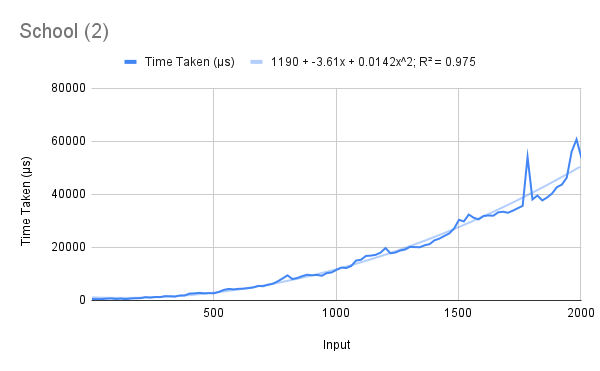
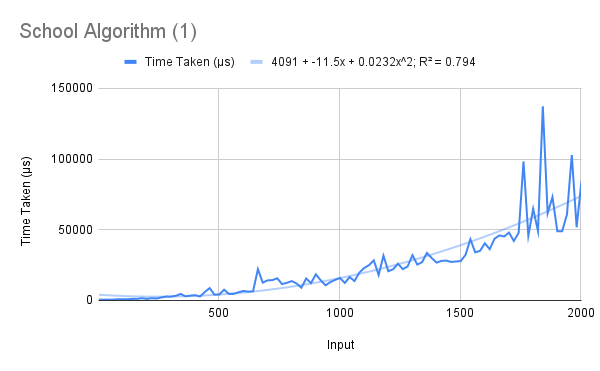
Multiplication Analysis and README

diff --git a/Prelims/Multiplication/README.md b/Prelims/Multiplication/README.md
@@ -1,0 +1,106 @@
+# Algorithms to Multiply Integers
+Two algorithms were taught in class to multiply arbitrary-size integers:
+
+1. the naïve school algorithm  
+2. the Karatsuba algorithm  
+
+In addition to these two, Haskell's native multiplication operator `*` is also given for comparison.  
+
+During implementation, two possible representations of arbitrary-size integers were considered – a list of digits (from highest power to smallest), or the normal representation. The school algorithm was more convenient in the former representation, while the Karatsuba algorithm and Haskell's multiplication operator could be more easily applied to the latter. Therefore all three operators were implemented in both representations.  
+
+Note: Haskell's arbitrary-size integer type, `Integer`, is the input and return type of all the functions in the second representation.
+
+## Running
+To run one of the algorithms, uncomment (remove the two hyphens and the space preceding) the corresponding line in the `main` function, save the file, and recompile. When running, pass the operands as command-line arguments (in quotes in case they are lists).
+```
+> ./multiplication 123 456
+> 56088
+> ./multiplication "[1,2,3]" "[4,5,6]"
+> "[5,6,0,8,8]"
+```
+
+## Explanation
+### The School Algorithm
+This solution runs in quadratic time, by computing partial products of one operand with each digit of the other, shifting each by the required amount, and adding. In the list representation, the shifting is done by appending a zero to the beginning prior to adding. For example, consider the input `[1,2,3]` times `[4,5,6]`. The list `t` has the value `[[4,8,12,0,0],[5,10,15,0,0],[6,12,18,0,0]]` (note that single-digit multiplication is done using the native operator, as a base case).  
+This list is folded from the right (`foldr`) with the function `\b p -> zipWith (+) b (0:p)` and the base case `[0,0,..]` (which is the same as `repeat 0`). Thus the sequence of operations is:  
+`zipWith (+) [6,12,18,0,0] (0:[0,0,..])         = [6,12,18,0,0]`  
+`zipWith (+) [5,10,15,0,0] (0:[6,12,18,0,0,0])  = [5,16,27,18,0]`  
+`zipWith (+) [4,8,12,0,0]  (0:[5,16,27,18,0,0]) = [4,13,28,27,18]`  
+
+The `toNum` converts this list to one with only single digits as elements, by taking `mod 10` and adding the carry-overs.  
+
+In the ordinary representation, the number is first converted to a list of digits and then back to an integer at the end.
+
+### The Karatsuba Algorithm
+This is a recursive algorithm, which runs by splitting the digits into two parts and computing the sub-products recursively. The `split` and `split2` functions divide both the integers and return a tuple of the parts, and the number of digits in the second part. The submultiplications take place and the products are multiplied by the appropriate power of 10, before being added together.  
+The base case is when *either* of the arguments has a single digit. It is carried out using the ordinary multiplication operator.  
+
+In the list representation, the base case is given by multiplying the digit and applying `toNum`. Further, multiplication by the powers of 10 is carried out by appending the required number of 0s to the end. `plus` and `minus` are for adding and subtracting (respectively) two list-represented integers of *unequal* length, by first padding one of them.
+
+## Analysis
+Each of the functions was run on a (different) randomly generated testcase, on numbers of lengths separated by intervals of 20 from 2 to 2002.  
+The list representation's graphs are marked as (1) and the normal representation's as (2).
+The R² values of the best fit of various types of functions for each of the algorithms' running times are shown below.  
+
+Algorithm          | Linear | Quadratic | Exponential | Power Series | Logarithmic  
+------------------ | ------ | --------- | ----------- | ------------ | -----------  
+Haskell Native (1) | 0.407  | 0.408     | 0.404       | 0.298        | 0.279  
+Haskell Native (2) | 0.091  | 0.101     | 0.086       | 0.032        | 0.038  
+School (1)         | 0.709  | 0.794     | 0.796       | 0.823        | 0.373  
+School (2)         | 0.895  | 0.975     | 0.958       | 0.797        | 0.473  
+Karatsuba (1)      | 0.704  | 0.704     | 0.634       | 0.839        | 0.487  
+Karatsuba (2)      | 0.928  | 0.949     | 0.907       | 0.826        | 0.55  
+
+Best fit curves are not considered for the first two methods as their values show that the trendline is not accurate for any standard type of function.  
+
+### Haskell Native
+This operation is extremely efficient, which is probably why we cannot see a significant trend in its running times in the small range. The graph is dominated by noise.  
+
+However, one conclusion we *can* draw would be the conversion time from the list representation to the ordinary representation (and back), which takes place in the first implementation. The average time of this (across all input lengths) is 707 μs in the list representation and 595 μs in the normal representation, which tells us that it takes about 100 μs (or 0.0001 seconds) to carry out the conversion.  
+While this offset is significant in this efficient operation, it is entirely negligible in the school algorithm's running time, and rapidly becomes so in the Karatsuba algorithm's.
+
+![Running Time of Haskell's Native Multiplication (List Representation)](HaskNatL.png)  
+
+![Running Time of Haskell's Native Multiplication (Normal Representation)](HaskNat.png)  
+
+
+### The School Algorithm
+This algorithm grows very fast compared to both others. As noted above, however, the conversion time between representations (which we expect to be disadvantageous to the normal representation) makes very little difference.  
+
+In fact, the average time of the normal representation is much better – 16600 μs, as compared to 23726 μs for the list representation. This can be attributed to the high amount of fluctuation noted in the graph, although the reason for this is unknown. The two implementations are identical, except for the conversion layered on the second one.  
+
+Notably, the range of 0- to 2000-digit numbers is enough to show the quadratic running time. The best-fit equation in both cases is quadratic, and its leading coefficient is not a negligible value (usually higher-order polynomial best fit equations tend to have leading coefficients of the order of 10^-5). The high R² value in the case of the normal representation is also encouraging.
+
+![Running Time of the School Algorithm (List Representation)](SchoolAlgL.png)  
+
+![Running Time of the School Algorithm (Normal Representation)](SchoolAlg.png)  
+
+### The Karatsuba Algorithm
+This is an efficient divide-and-conquer solution. This is illustrated in its runtime, which stays under 0.03 seconds (not considering irregular spikes and fluctuations).  
+
+The best-fit polynomial lines, remarkably, do not have the best R² values among all types of functions. Furthermore, they do not match up with the expected complexity (approximately n^1.585). This could be because of the small range of inputs.
+
+![Running Time of the Karatsuba Algorithm (List Representation)](KarL.png)  
+
+![Running Time of the Karatsuba Algorithm (Normal Representation)](Kar.png)  
+
+## Comparisons
+Two comparisons can be done – of the list-based methods among themselves and of the integer-based methods among themselves.  
+
+The list-based methods' comparisons are mostly as expected. The native `(*)` operator is almost constant compared to the other two methods, between which the Karatsuba algorithm is consistently better (even though the list representation is a poorer choice for it as compared to the school method).  
+
+![Comparison of List-Based Methods](CompList.png)  
+
+![Comparison of List-Based Methods (log scale)](CompListLog.png)  
+
+The integer-based methods' comparison follows much the same pattern.  
+
+![Comparison of Integer-Based Methods](CompInt.png)  
+
+![Comparison of Integer-Based Methods (log scale)](CompIntLog.png)  
+
+It can also be seen that the integer-based methods, although they usually take less time, are significantly less irregular than the list-based implementations. The reason for this observation is not clear either.  
+
+![Comparison of All Methods](CompAll.png)  
+
+![Comparison of All Methods (log scale)](CompAllLog.png)  
